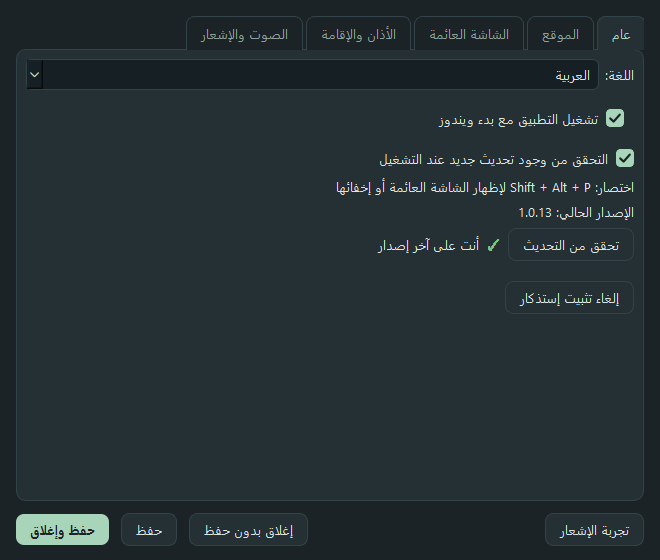
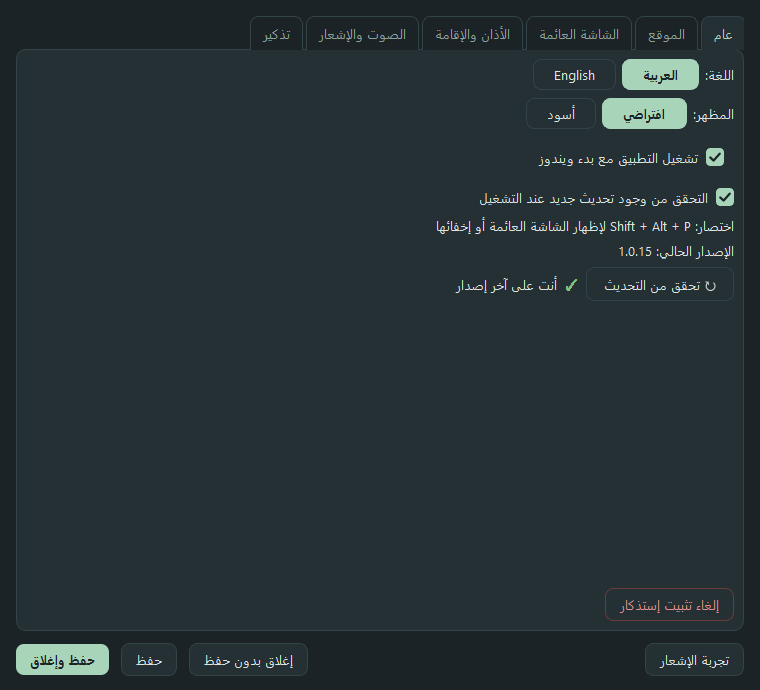
README, screenshots and changelog for 1.0.16

diff --git a/README.ar.md b/README.ar.md
@@ -24,10 +24,11 @@
 
 - **عدّاد فوق الألعاب.** كبسولة أفقية أو عمودية أو لوحة كاملة، بحجم من 50٪ إلى 250٪، وتحرّكها بالماوس. الاختصار `Shift + Alt + P` يُظهرها ويُخفيها.
 - **الإقامة واضحة.** عدّاد الإقامة بلون ذهبي ومكتوب عليه «الإقامة»، فما يلتبس عليك مع الأذان.
-- **تنبيه بدون إزعاج.** النقطة تومض قبل الأذان بـ 3 ثوانٍ وقبل الإقامة بـ 5 ثوانٍ، بدون صوت.
+- **تنبيه بدون إزعاج.** النقطة تومض قبل الأذان بـ 3 ثوانٍ وقبل الإقامة بـ 5 ثوانٍ، بدون صوت. وفيه خيار يخلي **الشاشة كلها تومض بشكل تدريجي** بدل النقطة.
 - **إشعار وصوت دائمًا.** شريط من أعلى الشاشة أو بطاقة في الزاوية، مع أربعة أصوات جاهزة أو ملف WAV خاص. يعملان حتى لو كانت لعبة شغّالة.
 - **مواقيت دقيقة بدون إنترنت.** تُحسب على جهازك حسب مدينتك بطريقة أم القرى، وتقدر تضبط كل صلاة بالثواني لتطابق مسجدك.
-- **عربي وإنجليزي،** والمدن قابلة للبحث بالعربي والإنجليزي.
+- **تذكيراتك الخاصة.** اكتب أي شي تبي تتذكره، وحدد له وقتًا وتكرارًا إذا تبي: مرة واحدة، أو كل يوم، أو أيام محددة، أو كل مدة معينة.
+- **عربي وإنجليزي،** والمدن قابلة للبحث بالعربي والإنجليزي. تبدّل اللغة بزر واحد، وتختار مظهر الإعدادات **افتراضي أو أسود**.
 - **يعمل مع بدء ويندوز،** ويتحدّث من داخل البرنامج بضغطة زر، ويُحذف بالكامل من الإعدادات.
 
 <p align="center">
@@ -35,7 +36,11 @@
 </p>
 
 <p align="center">
-  <img src="docs/images/settings-ar.png" alt="الإعدادات" width="48%"> <img src="docs/images/settings-en.png" alt="الإعدادات بالإنجليزي" width="48%">
+  <img src="docs/images/settings-ar.png" alt="الإعدادات" width="48%"> <img src="docs/images/settings-black-en.png" alt="الإعدادات بالمظهر الأسود" width="48%">
+</p>
+
+<p align="center">
+  <img src="docs/images/reminders-ar.png" alt="التذكيرات" width="48%"> <img src="docs/images/reminders-en.png" alt="التذكيرات بالإنجليزي" width="48%">
 </p>
 
 ## الألعاب

diff --git a/README.md b/README.md
@@ -22,10 +22,11 @@
 
 - **Counter over your games.** A horizontal or vertical capsule, or a full panel. Size from 50% to 250%, movable with the mouse. `Shift + Alt + P` shows or hides it.
 - **Iqama stands out.** The iqama countdown is gold and labelled, so it is never mistaken for the adhan.
-- **Quiet heads-up.** The dot blinks 3 seconds before adhan and 5 seconds before iqama, silently.
+- **Quiet heads-up.** The dot blinks 3 seconds before adhan and 5 seconds before iqama, silently. An option makes the **whole panel fade in and out smoothly** instead.
 - **Alert and sound, always.** A banner at the top or a card in a corner, with four built-in sounds or your own WAV file. They work while a game is running.
 - **Accurate times, offline.** Calculated on your PC for your city (Umm al-Qura). You can shift each prayer by seconds to match your mosque.
-- **Arabic and English,** with cities searchable in both.
+- **Your own reminders.** Write anything you want to remember, with an optional time and repeat: once, every day, on chosen days, or every few minutes.
+- **Arabic and English,** with cities searchable in both. Switch with one button, and pick a **default or black** look for the settings.
 - **Starts with Windows,** updates itself from inside the app with one click, and uninstalls completely from the settings.
 
 <p align="center">
@@ -33,7 +34,11 @@
 </p>
 
 <p align="center">
-  <img src="docs/images/settings-en.png" alt="Settings" width="48%"> <img src="docs/images/settings-ar.png" alt="Settings in Arabic" width="48%">
+  <img src="docs/images/settings-en.png" alt="Settings" width="48%"> <img src="docs/images/settings-black-en.png" alt="Settings, black look" width="48%">
+</p>
+
+<p align="center">
+  <img src="docs/images/reminders-en.png" alt="Reminders" width="48%"> <img src="docs/images/reminders-ar.png" alt="Reminders in Arabic" width="48%">
 </p>
 
 ## Games

diff --git a/CHANGELOG.ar.md b/CHANGELOG.ar.md
@@ -4,6 +4,13 @@
 
 [English](CHANGELOG.md) | **العربية**
 
+## 1.0.16
+- جديد: تبويب **تذكير**. اكتب أي شي تبي تتذكره، وحدد له وقتًا وتكرارًا إذا تبي (مرة واحدة، أو كل يوم، أو أيام محددة، أو كل مدة معينة).
+- جديد: خيار يخلي الشاشة العائمة كلها تومض بشكل تدريجي قبل الأذان والإقامة (مفعّل افتراضيًا).
+- جديد: مظهر أسود لنافذة الإعدادات (الإعدادات ← عام).
+- اللغة صارت زرًا بدل قائمة. والقوائم والأرقام والمؤشرات ما تتغير لما تحرّك الصفحة بعجلة الماوس.
+- زر التحقق من التحديث فيه سهم يلف، وخط تحميل يوضح تقدّم التحديث، وزر إلغاء التثبيت نزل لأسفل باللون الأحمر.
+
 ## 1.0.15
 - أخف. حجم الملف أقل من النصف (من نحو 56 ميجا إلى 26 ميجا)، واستهلاك الذاكرة وقت الخمول نحو الربع مما كان.
 - نافذة الإعدادات تحرّر ذاكرتها عند إغلاقها، وقائمة المدن ما عادت تُحفظ في الذاكرة.

diff --git a/CHANGELOG.md b/CHANGELOG.md
@@ -2,6 +2,13 @@
 
 **English** | [العربية](CHANGELOG.ar.md)
 
+## 1.0.16
+- New: **Reminders** tab. Write anything you want to remember, with an optional time and repeat (once, every day, chosen days, or every few minutes).
+- New: an option to make the whole floating panel fade in and out smoothly before adhan and iqama (on by default).
+- New: a black look for the settings window (Settings > General).
+- Language is now a button instead of a list. Lists, numbers and sliders no longer change when you scroll the page with the mouse wheel.
+- The check-for-updates button has a turning arrow, a download line shows the progress of an update, and the uninstall button moved to the bottom in red.
+
 ## 1.0.15
 - Lighter. The app file is less than half the size (about 56 MB down to 26 MB) and idle memory use is about a quarter of before.
 - The settings window now frees its memory when you close it, and the city list is no longer kept in memory.
